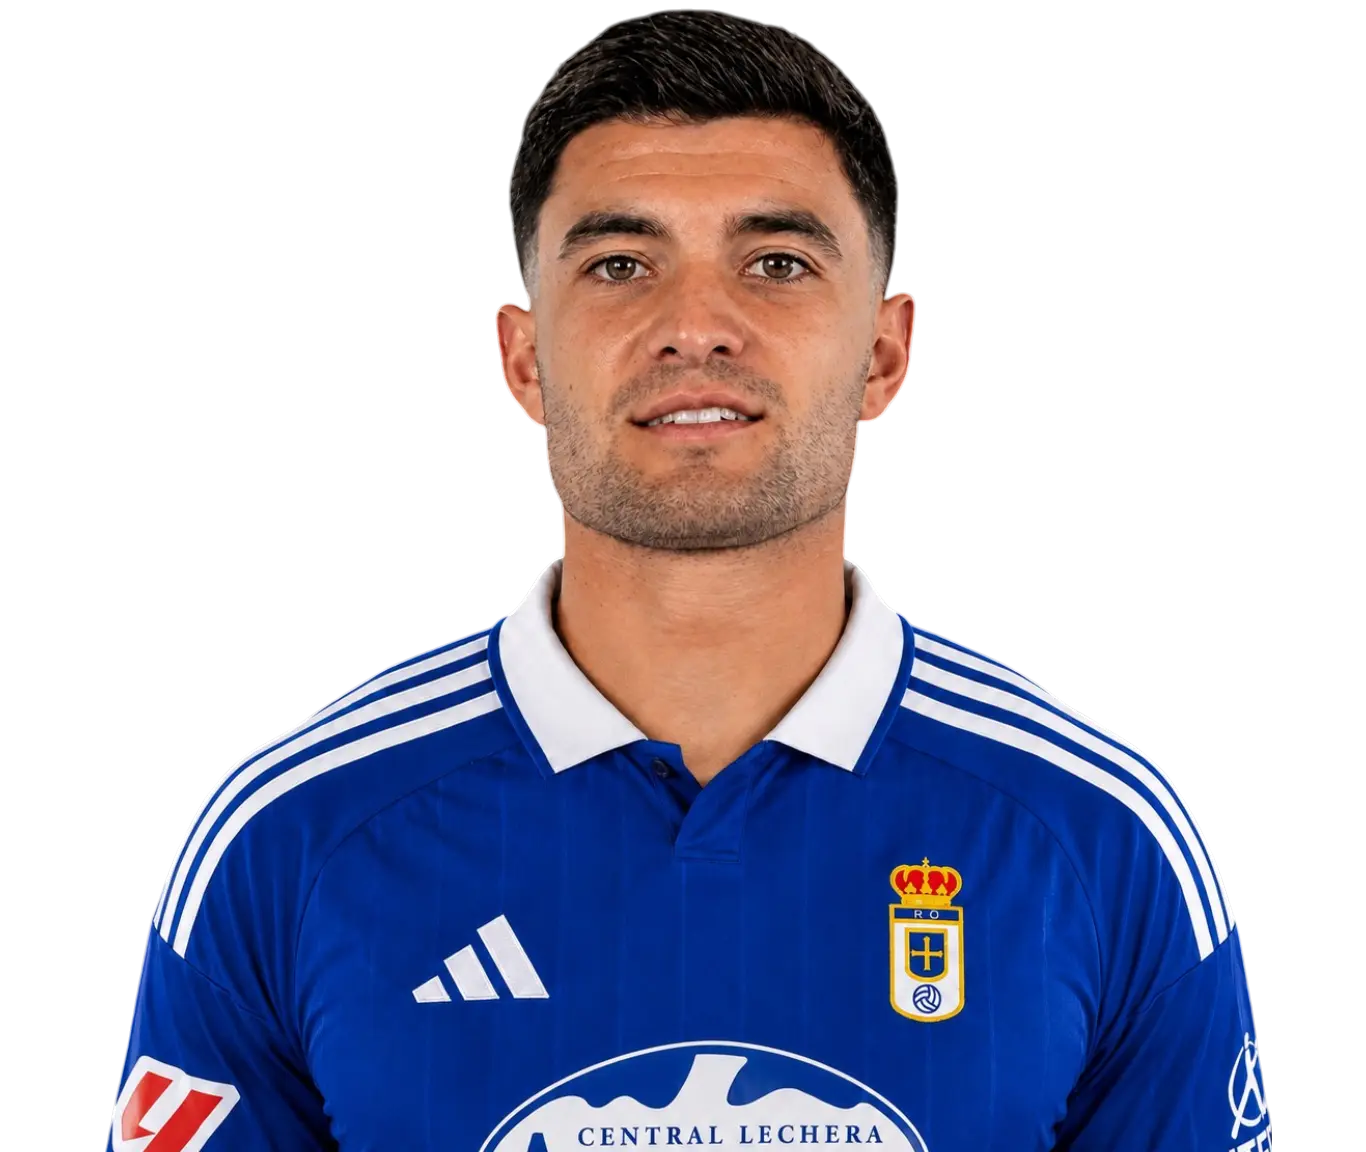
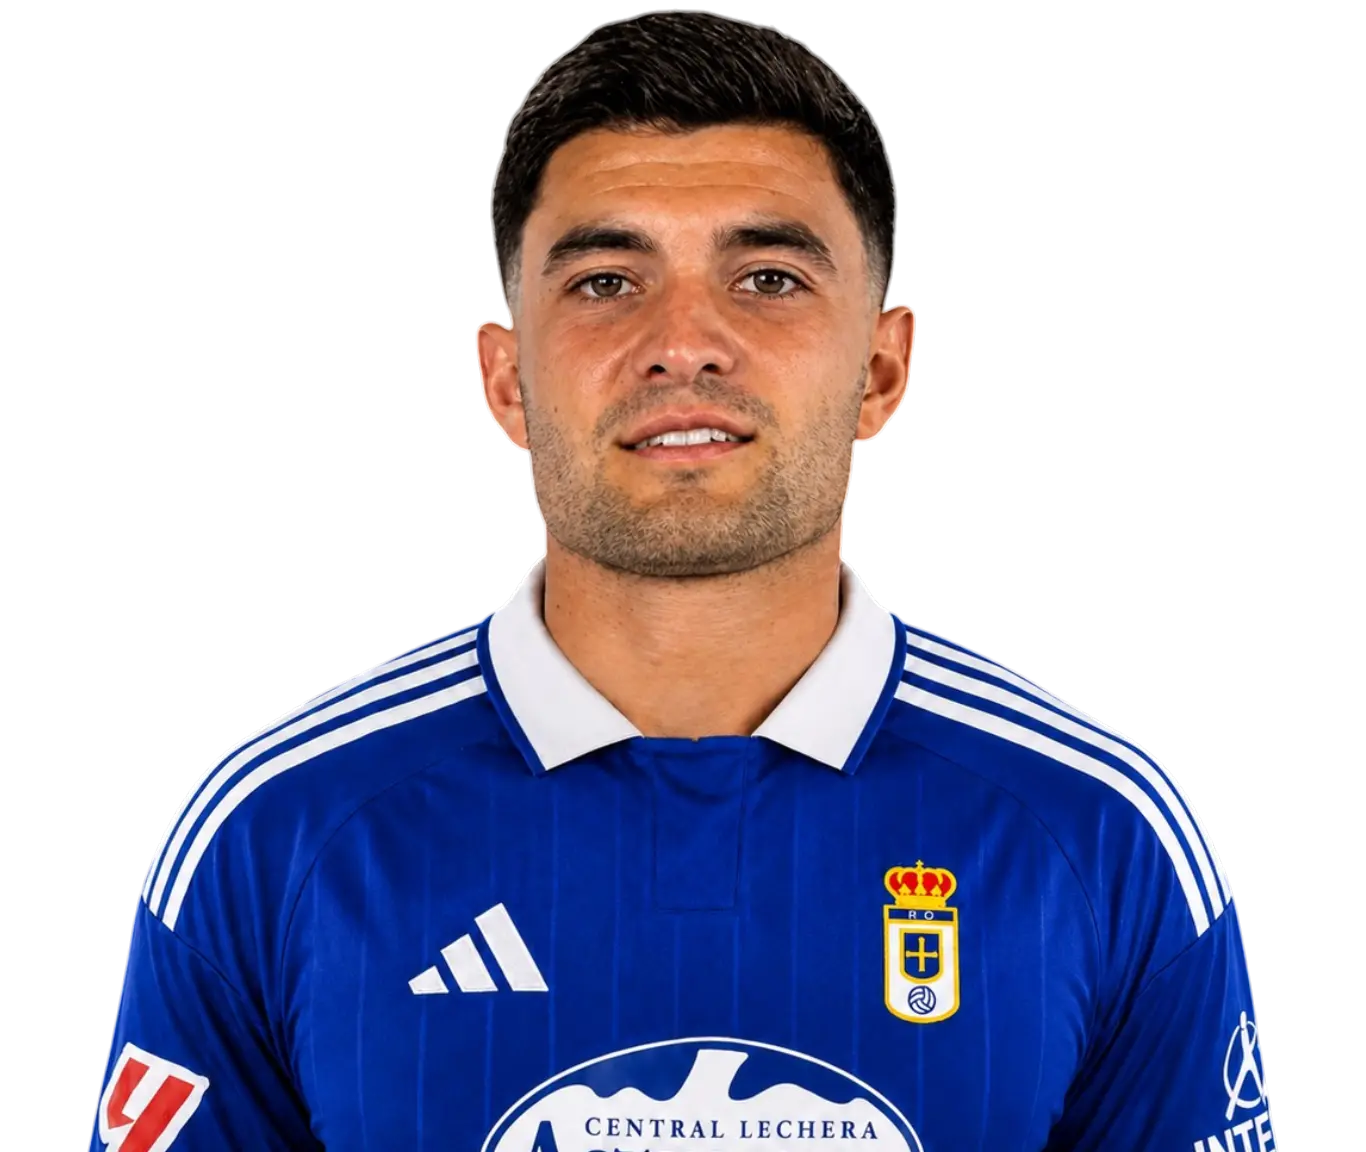
zz

diff --git a/ficha-jugador.html b/ficha-jugador.html
@@ -111,7 +111,7 @@
     <!-- Scripts -->
     <script src="js/i18n.js?nocache=20251231v100"></script>
     <script src="js/data-club.js?nocache=20260426v9"></script>
-    <script src="js/data-jugadores.js?nocache=20260426v129"></script>
+    <script src="js/data-jugadores.js?nocache=20260426v130"></script>
     <script src="js/busqueda.js?nocache=20260614v4"></script>
     <script src="js/data-temporada-actual.js?nocache=20260426v101"></script>
     <script src="js/data-historico.js?nocache=20260509v161"></script>

diff --git a/juegos.html b/juegos.html
@@ -107,7 +107,7 @@
     <!-- Scripts -->
     <script src="js/i18n.js?nocache=20251231v33"></script>
     <script src="js/data-club.js?nocache=20260426v9"></script>
-    <script src="js/data-jugadores.js?nocache=20260426v129"></script>
+    <script src="js/data-jugadores.js?nocache=20260426v130"></script>
     <script src="js/busqueda.js?nocache=20260614v4"></script>
     <script src="js/data-temporada-actual.js?nocache=20260426v21"></script>
     <script src="js/data-historico.js?nocache=20260426v160"></script>

diff --git a/videos.html b/videos.html
@@ -154,7 +154,7 @@
     <!-- Scripts -->
     <script src="js/i18n.js?nocache=20251231v33"></script>
     <script src="js/data-club.js?nocache=20260426v8"></script>
-    <script src="js/data-jugadores.js?nocache=20260426v129"></script>
+    <script src="js/data-jugadores.js?nocache=20260426v130"></script>
     <script src="js/busqueda.js?nocache=20260614v4"></script>
     <script src="js/data-temporada-actual.js?nocache=20260426v97"></script>
     <script src="js/data-historico.js?nocache=20260426v158"></script>

diff --git a/primer-equipo.html b/primer-equipo.html
@@ -115,7 +115,7 @@
 
     <script src="js/i18n.js?nocache=20251231v99"></script>
     <script src="js/data-club.js?nocache=20260426v9"></script>
-    <script src="js/data-jugadores.js?nocache=20260426v129"></script>
+    <script src="js/data-jugadores.js?nocache=20260426v130"></script>
     <script src="js/busqueda.js?nocache=20260614v4"></script>
     <script src="js/data-temporada-actual.js?nocache=20260526v24"></script>
     <script src="js/data-historico.js?nocache=20260526v161"></script>

diff --git a/primera-division.html b/primera-division.html
@@ -178,7 +178,7 @@
 
     <script src="js/i18n.js?nocache=20251231v30"></script>
     <script src="js/data-club.js?nocache=20260426v8"></script>
-    <script src="js/data-jugadores.js?nocache=20260426v37"></script>
+    <script src="js/data-jugadores.js?nocache=20260426v38"></script>
     <script src="js/busqueda.js?nocache=20260614v4"></script>
     <script src="js/data-temporada-actual.js?nocache=20260426v98"></script>
     <script src="js/data-historico.js?nocache=20260426v159"></script>

diff --git a/derbis.html b/derbis.html
@@ -101,7 +101,7 @@
     <footer class="main-footer" id="footer-placeholder"></footer>
 
     <script src="js/data-club.js?nocache=20260426v9"></script>
-    <script src="js/data-jugadores.js?nocache=20260426v129"></script>
+    <script src="js/data-jugadores.js?nocache=20260426v130"></script>
     <script src="js/busqueda.js?nocache=20260614v4"></script>
     <script src="js/i18n.js?nocache=20260426v6"></script>
     <script src="js/main.js?nocache=20260426v5"></script>

diff --git a/derbi.html b/derbi.html
@@ -88,7 +88,7 @@
     <footer class="main-footer" id="footer-placeholder"></footer>
 
     <script src="js/data-club.js?nocache=20260426v9"></script>
-    <script src="js/data-jugadores.js?nocache=20260426v129"></script>
+    <script src="js/data-jugadores.js?nocache=20260426v130"></script>
     <script src="js/busqueda.js?nocache=20260614v4"></script>
     <script src="js/i18n.js?nocache=20260426v6"></script>
     <script src="js/main.js?nocache=20260426v5"></script>

diff --git a/clasificacion.html b/clasificacion.html
@@ -159,7 +159,7 @@
     <script src="js/clasificacion.js?nocache=20260601v10"></script>
     <script src="js/main.js?nocache=20260601v1"></script>
     <script src="js/data-club.js?nocache=20260426v8"></script>
-    <script src="js/data-jugadores.js?nocache=20260426v129"></script>
+    <script src="js/data-jugadores.js?nocache=20260426v130"></script>
     <script src="js/busqueda.js?nocache=20260614v4"></script>
   </body>
 </html>

diff --git a/calendario.html b/calendario.html
@@ -163,7 +163,7 @@
     <script src="js/calendario.js?nocache=20260601v4"></script>
     <script src="js/main.js?nocache=20260601v1"></script>
     <script src="js/data-club.js?nocache=20260426v9"></script>
-    <script src="js/data-jugadores.js?nocache=20260426v129"></script>
+    <script src="js/data-jugadores.js?nocache=20260426v130"></script>
     <script src="js/busqueda.js?nocache=20260614v4"></script>
   </body>
 </html>

diff --git a/noticias.html b/noticias.html
@@ -150,7 +150,7 @@
     <script src="js/noticias.js?nocache=20260330v11"></script>
     <script src="js/main.js?nocache=20260330v8"></script>
     <script src="js/data-club.js?nocache=20260426v9"></script>
-    <script src="js/data-jugadores.js?nocache=20260426v130"></script>
+    <script src="js/data-jugadores.js?nocache=20260426v131"></script>
     <script src="js/busqueda.js?nocache=20260614v4"></script>
   </body>
 </html>

diff --git a/js/data-jugadores.js b/js/data-jugadores.js
@@ -2639,7 +2639,7 @@ CLUB_DATA.jugadoresMaestro = {
     imagen: 'img/jugadores/Youness.webp',
     seleccion: {
       pais: 'Marruecos',
-      bandera: 'ma',
+      bandera: 'https://flagcdn.com/16x12/ma.webp',
       datos: [
         {
           categoria: 'U20',
